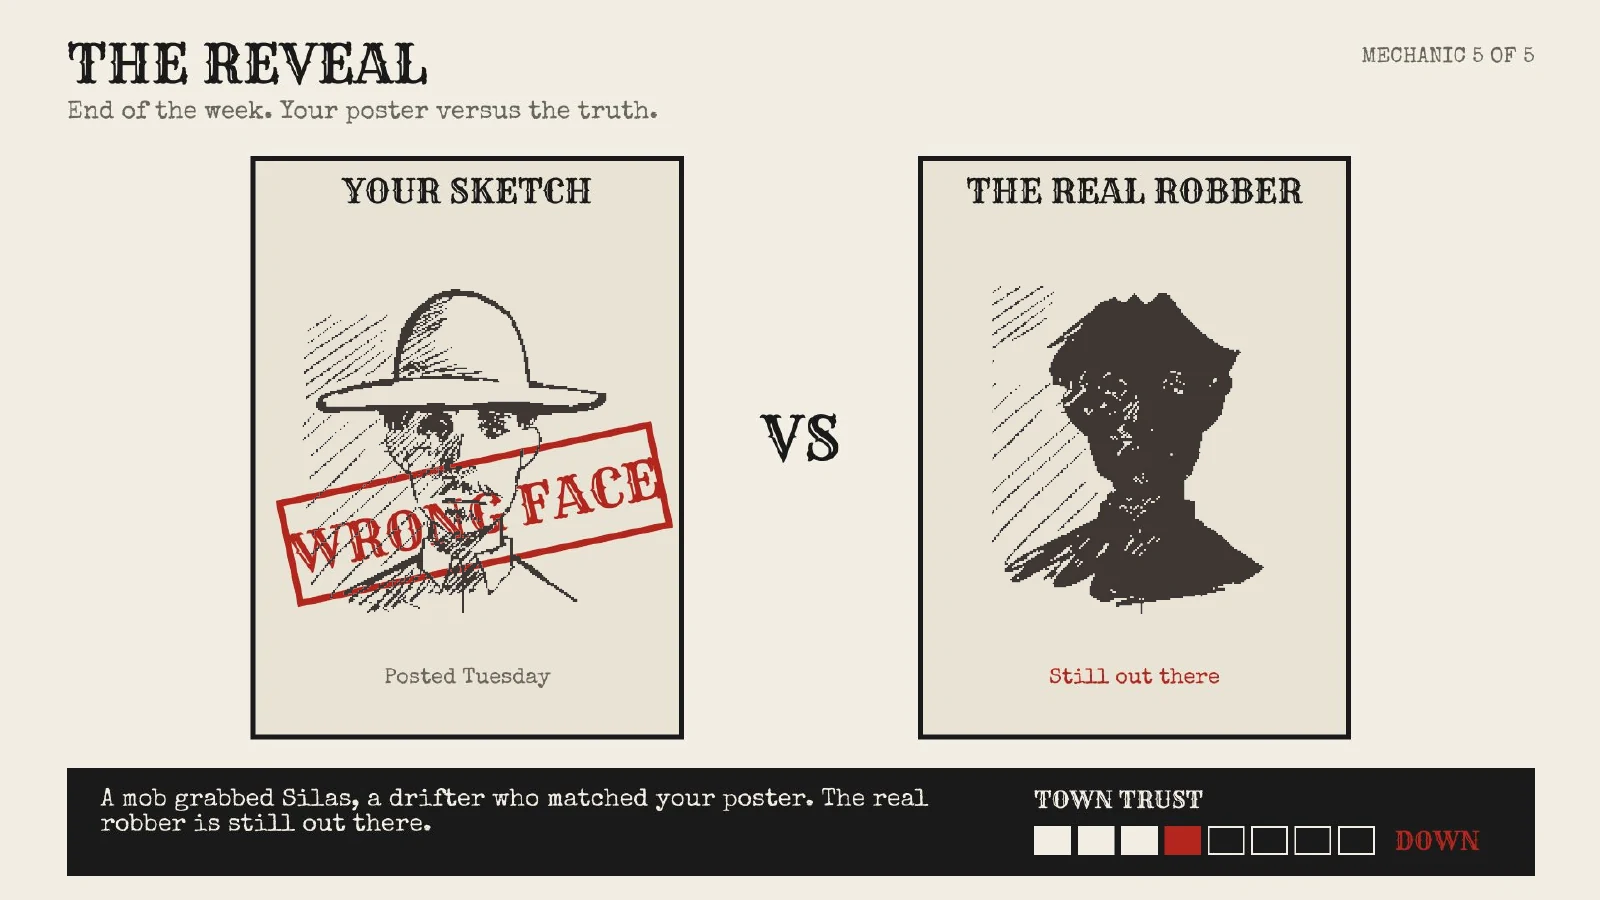
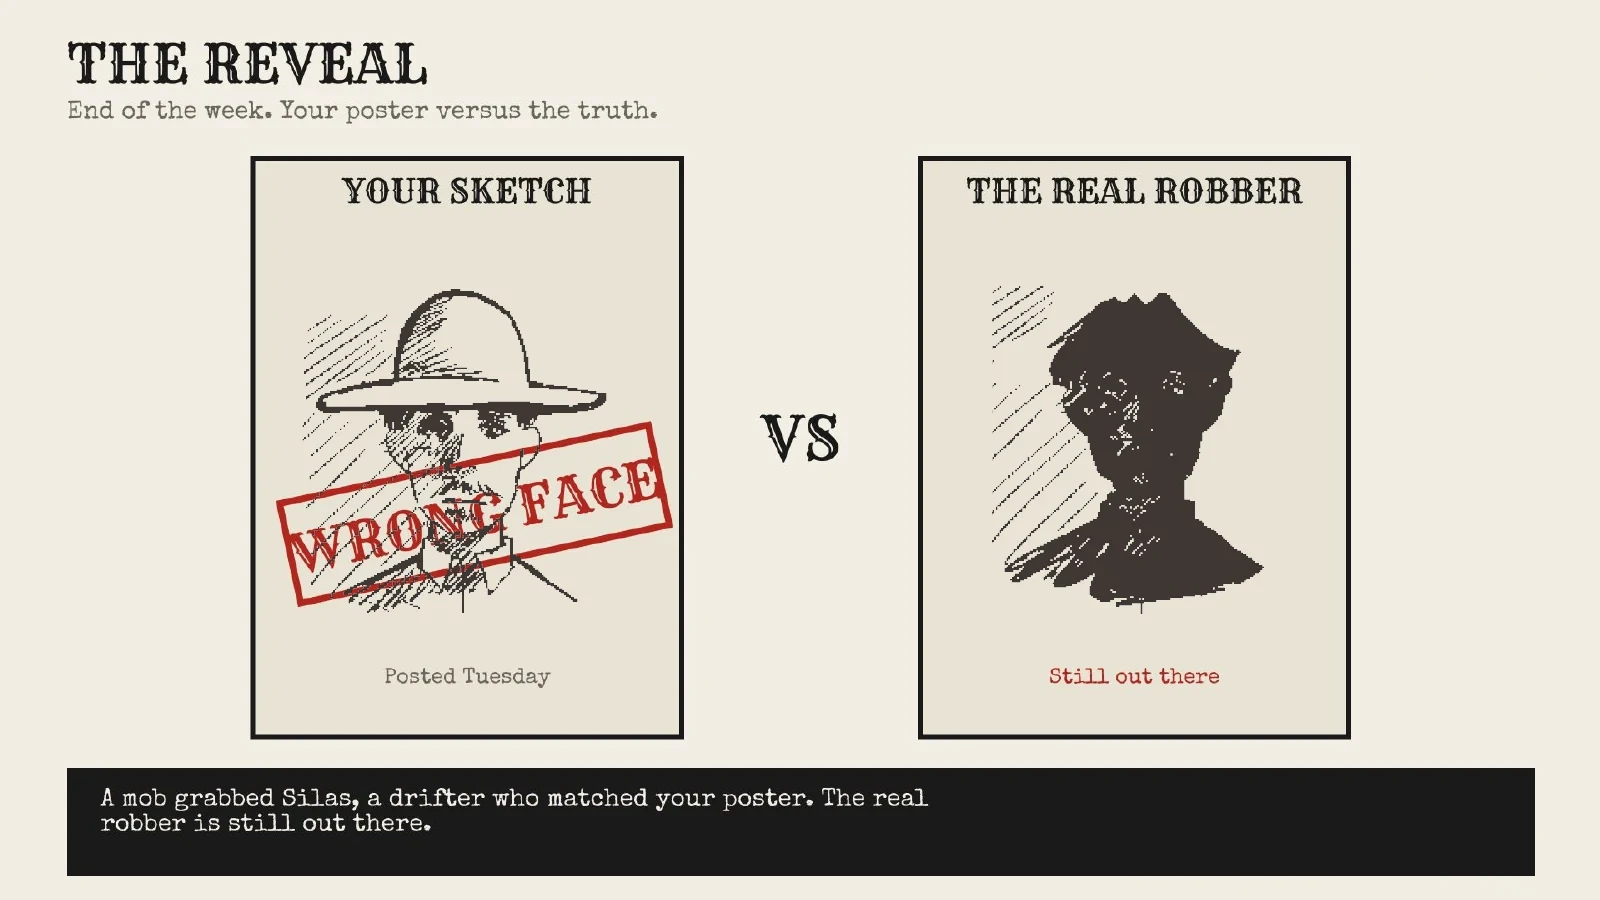
Update By Witness case study: remove trust meter, bribes, and note taking
Claude-Session: https://claude.ai/code/session_01GxfiuZj4XS9PA2HfcwYzBt

Changed region(s): [[0.625, 0.8711, 0.8125, 0.9644], [0.875, 0.9022, 0.9375, 0.9644], [0.8438, 0.0311, 0.9375, 0.0933]]

diff --git a/by-witness.html b/by-witness.html
@@ -167,7 +167,7 @@
   .cs-note { border-left: 3px solid var(--accent); padding: 4px 0 4px 18px; color: var(--ink-soft); font-size: 15px; max-width: 70ch; margin-top: 6px; }
   .loop { margin-top: 6px; }
   .cs-shots { display: grid; grid-template-columns: 1fr 1fr; gap: 8px 22px; }
-  .cs-shots figure:last-child { grid-column: 1 / -1; max-width: calc(50% - 11px); }
+  .cs-shots figure:last-child { grid-column: 1 / -1; }
   .cs-shots .cs-cap { margin: 12px 0 28px; font-size: 15px; }
   @media (max-width: 860px) { .cs-shots { grid-template-columns: 1fr; } .cs-shots figure:last-child { max-width: none; } }
   @media (max-width: 860px) { .cs-sec { grid-template-columns: 1fr; padding: 64px 0; } .cs-sec > header { position: static; } .cs-facts { grid-template-columns: 1fr 1fr; } .cs-two { grid-template-columns: 1fr; } }
@@ -210,7 +210,7 @@
   <section class="cs-hero">
     <a class="cs-back" href="index.html#work">&larr; All work</a>
     <h1 class="cs-title">By Witness</h1>
-    <p class="cs-one">A story driven game where you play a sketch artist in a corrupt Old West town, and one wrong question can put an innocent man on a poster.</p>
+    <p class="cs-one">A story driven game where you play a new deputy and sketch artist in a corrupt Old West town, and one wrong question can put an innocent man on a poster.</p>
     <div class="tags"><span class="tag">Game Design</span><span class="tag">UI/UX</span><span class="tag">In progress</span></div>
     <dl class="cs-facts">
       <div><dt>Year</dt><dd>Oct 2026 to present<span class="sub">Wraps up end of fall quarter</span></dd></div>
@@ -218,14 +218,14 @@
       <div><dt>Team</dt><dd>Bryant Le, Matthew Nguyen, Kristy Le</dd></div>
       <div><dt>Tools</dt><dd>Figma<span class="sub">INFO 498, UW</span></dd></div>
     </dl>
-    <div class="cs-cover"><img class="" loading="lazy" decoding="async" src="images/by-witness/reveal.webp" width="1600" height="900" alt="The Reveal screen. The player's sketch stamped Wrong Face next to the real robber, with town trust going down."></div>
+    <div class="cs-cover"><img class="" loading="lazy" decoding="async" src="images/by-witness/reveal.webp" width="1600" height="900" alt="The Reveal screen. The player's sketch stamped Wrong Face next to the real robber."></div>
   </section>
 
   <section class="cs-sec">
     <header><p class="cs-num">(01)</p><h2>Overview</h2></header>
     <div class="cs-body">
       <p class="cs-lead">Most games about crime put you in charge. You catch the bad guy and the story ends. We wanted to flip that.</p>
-      <p>In By Witness, the truth depends on what scared, paid off, or confused people tell you. And the system around you rewards speed over getting it right. We wanted players to leave asking who actually decides what justice looks like, and what it costs to do the right thing when the easy thing pays off right now.</p>
+      <p>In By Witness, the truth depends on what scared and confused people tell you. Your boss, Sheriff Dunn, sits in on interviews and doubts anyone he thinks is beneath him. When he pushes, witnesses shut down and misremember. We wanted players to see how one officer's bias can put the wrong face on a poster and break a town's trust in the law.</p>
     </div>
   </section>
 
@@ -243,16 +243,15 @@
   <section class="cs-sec">
     <header><p class="cs-num">(03)</p><h2>Core loop</h2></header>
     <div class="cs-body">
-      <div class="loop" role="img" aria-label="Core loop. Every day you interview witnesses, take or refuse deals, and sketch the poster. Every week you lock in a suspect, see the reveal, and face harder cases.">
-        <div class="loop-row"><div class="loop-label">Every day</div><div class="steps">
-          <div class="step"><strong>Interview witnesses</strong><span>Open or leading questions</span></div><div class="arrow">&rarr;</div>
-          <div class="step"><strong>Take or refuse deals</strong><span>Bribes and moral choices</span></div><div class="arrow">&rarr;</div>
-          <div class="step"><strong>Sketch the poster</strong><span>Build the face from parts</span></div></div></div>
-        <div class="between">&darr; end of week</div>
-        <div class="loop-row"><div class="loop-label">Every week</div><div class="steps">
-          <div class="step"><strong>Lock in your suspect</strong><span>Compare notes, pick one</span></div><div class="arrow">&rarr;</div>
+      <div class="loop" role="img" aria-label="Core loop. For every case you do an initial interview at the scene, a secondary interview at the station while you sketch, and suspect identification alone at each witness's home. Then you see the reveal and move to the next case.">
+        <div class="loop-row"><div class="loop-label">Every case</div><div class="steps">
+          <div class="step"><strong>Initial interview</strong><span>At the scene, with another deputy</span></div><div class="arrow">&rarr;</div>
+          <div class="step"><strong>Secondary interview</strong><span>Sketch at the station while Dunn interjects</span></div><div class="arrow">&rarr;</div>
+          <div class="step"><strong>Suspect identification</strong><span>Alone at each witness's home</span></div></div></div>
+        <div class="between">&darr; end of case</div>
+        <div class="loop-row"><div class="loop-label">After every case</div><div class="steps">
           <div class="step key"><strong>The reveal</strong><span>See who got hurt and why</span></div><div class="arrow">&rarr;</div>
-          <div class="step"><strong>Harder cases</strong><span>More pressure next week</span></div></div></div>
+          <div class="step"><strong>Next case</strong><span>The town's secrets come out</span></div></div></div>
       </div>
     </div>
   </section>
@@ -262,22 +261,20 @@
     <div class="cs-body">
       <div class="cs-cards">
         <div class="cs-card"><span class="k">01</span><h3>Good questions vs fast questions</h3><p>Open questions get honest but vague answers. Leading questions get clear answers but can plant false details. The fastest option is also the riskiest.</p></div>
-        <div class="cs-card"><span class="k">02</span><h3>Bribes vs moral decisions</h3><p>Bribes are clearly wrong. Moral decisions have no right answer. If every choice were a bribe, players would refuse everything and feel good about it.</p></div>
-        <div class="cs-card"><span class="k">03</span><h3>A quota that rewards speed</h3><p>The quota counts posters, not correct posters. Nobody checks if you drew the right face. That pressure is what makes bribes tempting.</p></div>
+        <div class="cs-card"><span class="k">02</span><h3>The sheriff is a mechanic</h3><p>Dunn interrupts and doubts witnesses during the secondary interview. You choose when to step in. Let him push and the witness shuts down. Stand up to him and you risk upsetting your boss.</p></div>
+        <div class="cs-card"><span class="k">03</span><h3>Who gets believed</h3><p>Dunn is polite to wealthy residents and quick to dismiss everyone else. Suspect identification happens without him, so poorer townspeople finally open up to you.</p></div>
       </div>
     </div>
   </section>
 
   <section class="cs-sec">
-    <header><p class="cs-num">(05)</p><h2>One case, five screens</h2></header>
+    <header><p class="cs-num">(05)</p><h2>One case, three screens</h2></header>
     <div class="cs-body">
-      <p>Following Clara, a witness to a stagecoach robbery, through the whole game loop.</p>
+      <p>Following Clara, a witness to a stagecoach robbery, from interview to reveal.</p>
       <div class="cs-shots">
         <figure><div class="cs-flow"><img class="" loading="lazy" decoding="async" src="images/by-witness/interview.webp" width="1600" height="900" alt="Interview screen. Clara answers and the player picks between an open question and a leading question."></div><figcaption class="cs-cap"><b>1. Interview.</b> You ask if he had a scar. Now Clara remembers big scars across his face.</figcaption></figure>
-        <figure><div class="cs-flow"><img class="" loading="lazy" decoding="async" src="images/by-witness/the-deal.webp" width="1600" height="900" alt="The Deal screen with Take the deal and Refuse buttons."></div><figcaption class="cs-cap"><b>2. The deal.</b> Clara offers a sharp description if you leave her brother out of it. No right answer, but town trust moves either way.</figcaption></figure>
-        <figure><div class="cs-flow"><img class="" loading="lazy" decoding="async" src="images/by-witness/compare-notes.webp" width="1600" height="892" alt="Compare Notes screen with Clara's and Otis's notes and the conflicting scar circled."></div><figcaption class="cs-cap"><b>3. Compare notes.</b> Otis says there wasn't a scratch on him. Did your leading question plant that scar?</figcaption></figure>
-        <figure><div class="cs-flow"><img class="" loading="lazy" decoding="async" src="images/by-witness/sketch.webp" width="1600" height="888" alt="Sketch the Suspect screen with a wanted poster, witness panel, and quota counter."></div><figcaption class="cs-cap"><b>4. Sketch the suspect.</b> The witness panel flags the scar because you asked about it. The quota pushes you to post anyway.</figcaption></figure>
-        <figure><div class="cs-flow"><img class="" loading="lazy" decoding="async" src="images/by-witness/reveal.webp" width="1600" height="900" alt="The Reveal screen with the player's sketch stamped Wrong Face."></div><figcaption class="cs-cap"><b>5. The reveal.</b> Wrong face. A mob grabbed Silas, a drifter who matched your poster. The real robber is still out there.</figcaption></figure>
+        <figure><div class="cs-flow"><img class="" loading="lazy" decoding="async" src="images/by-witness/sketch.webp" width="1600" height="888" alt="Sketch the Suspect screen with a wanted poster and witness panel."></div><figcaption class="cs-cap"><b>2. Sketch the suspect.</b> The witness panel flags the scar because you asked about it. Do you trust it?</figcaption></figure>
+        <figure><div class="cs-flow"><img class="" loading="lazy" decoding="async" src="images/by-witness/reveal.webp" width="1600" height="900" alt="The Reveal screen with the player's sketch stamped Wrong Face."></div><figcaption class="cs-cap"><b>3. The reveal.</b> Wrong face. A mob grabbed Silas, a drifter who matched your poster. The real robber is still out there.</figcaption></figure>
       </div>
     </div>
   </section>
@@ -286,8 +283,8 @@
     <header><p class="cs-num">(06)</p><h2>How it changed</h2></header>
     <div class="cs-body">
       <div class="cs-two">
-        <div class="cs-card"><h3>Iterations</h3><ul><li>Started as "Likeness," a sketch artist drawing wanted posters. A fun mechanic with no message.</li><li>Added a social impact angle: a corrupt town and a system that rewards speed over truth.</li><li>Renamed it By Witness to focus on witnesses and unreliable memory.</li></ul></div>
-        <div class="cs-card"><h3>What I learned</h3><ul><li>Consequences teach better than rules.</li><li>A choice needs a cost on both sides.</li><li>The system is the message.</li><li>Leading a team means making calls.</li></ul></div>
+        <div class="cs-card"><h3>Iterations</h3><ul><li>Started as "Likeness," a sketch artist drawing wanted posters. A fun mechanic with no message.</li><li>Added a social impact angle: a corrupt town and a system that rewards speed over truth.</li><li>Renamed it By Witness to focus on witnesses and unreliable memory.</li><li>Cut the trust meter, bribes, and note taking. They pulled focus from the real message, so we rebuilt the loop around three interview stages and Sheriff Dunn.</li></ul></div>
+        <div class="cs-card"><h3>What I learned</h3><ul><li>Consequences teach better than rules.</li><li>A choice needs a cost on both sides.</li><li>Cutting features makes the message clearer.</li><li>The system is the message.</li><li>Leading a team means making calls.</li></ul></div>
       </div>
       <p class="cs-note">Playtesting is next. I'm walking classmates through these screens and will update this page with what I changed.</p>
     </div>
